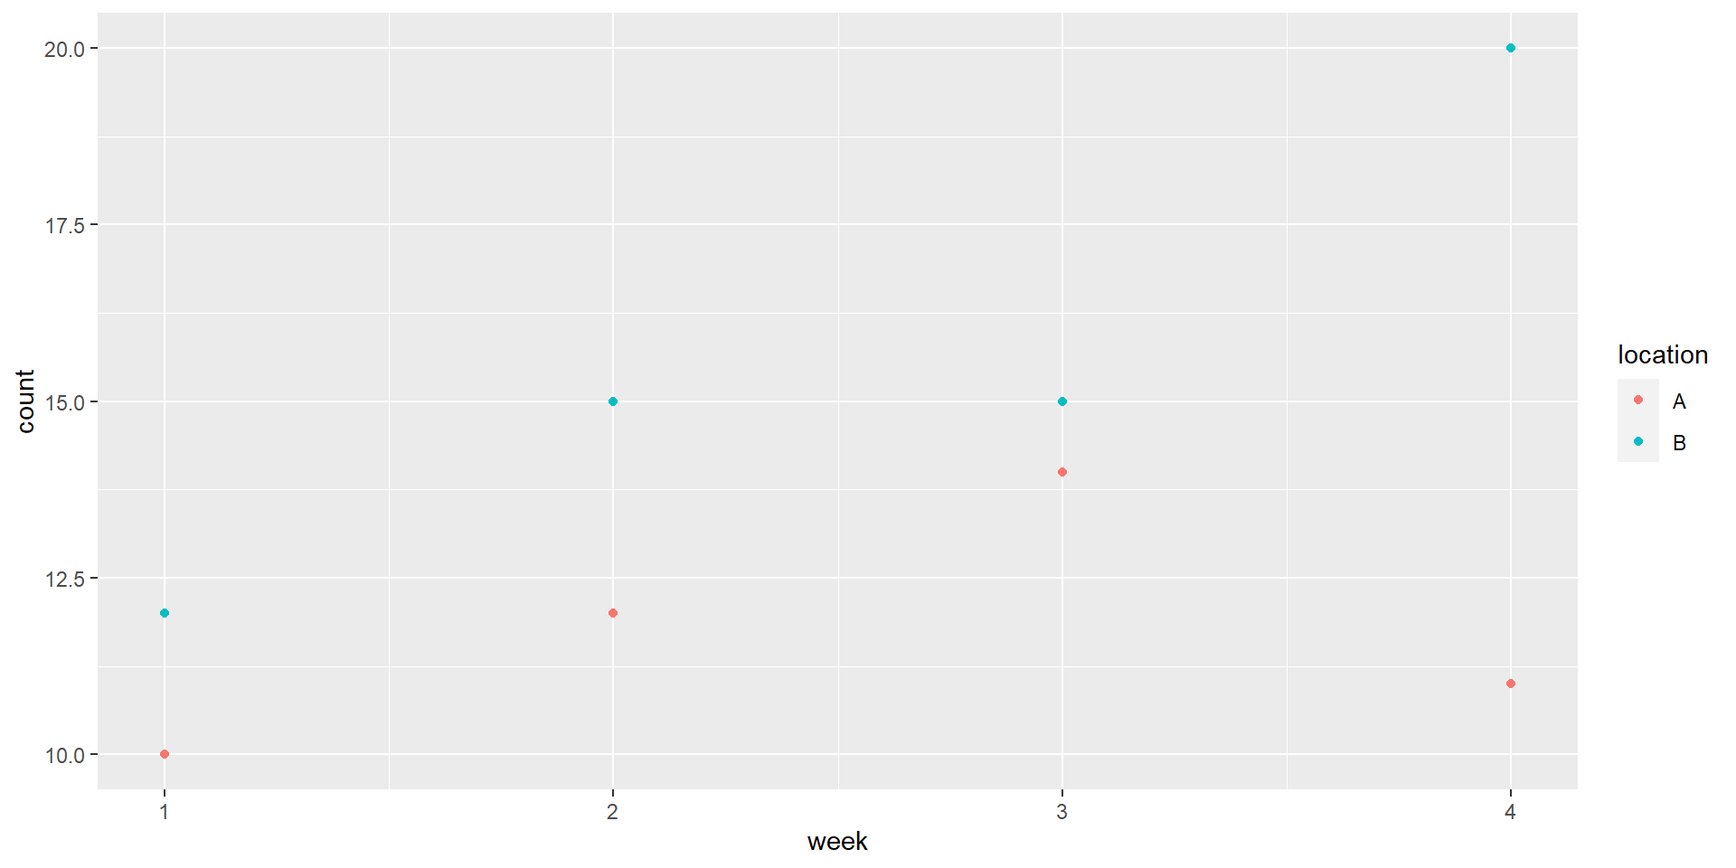
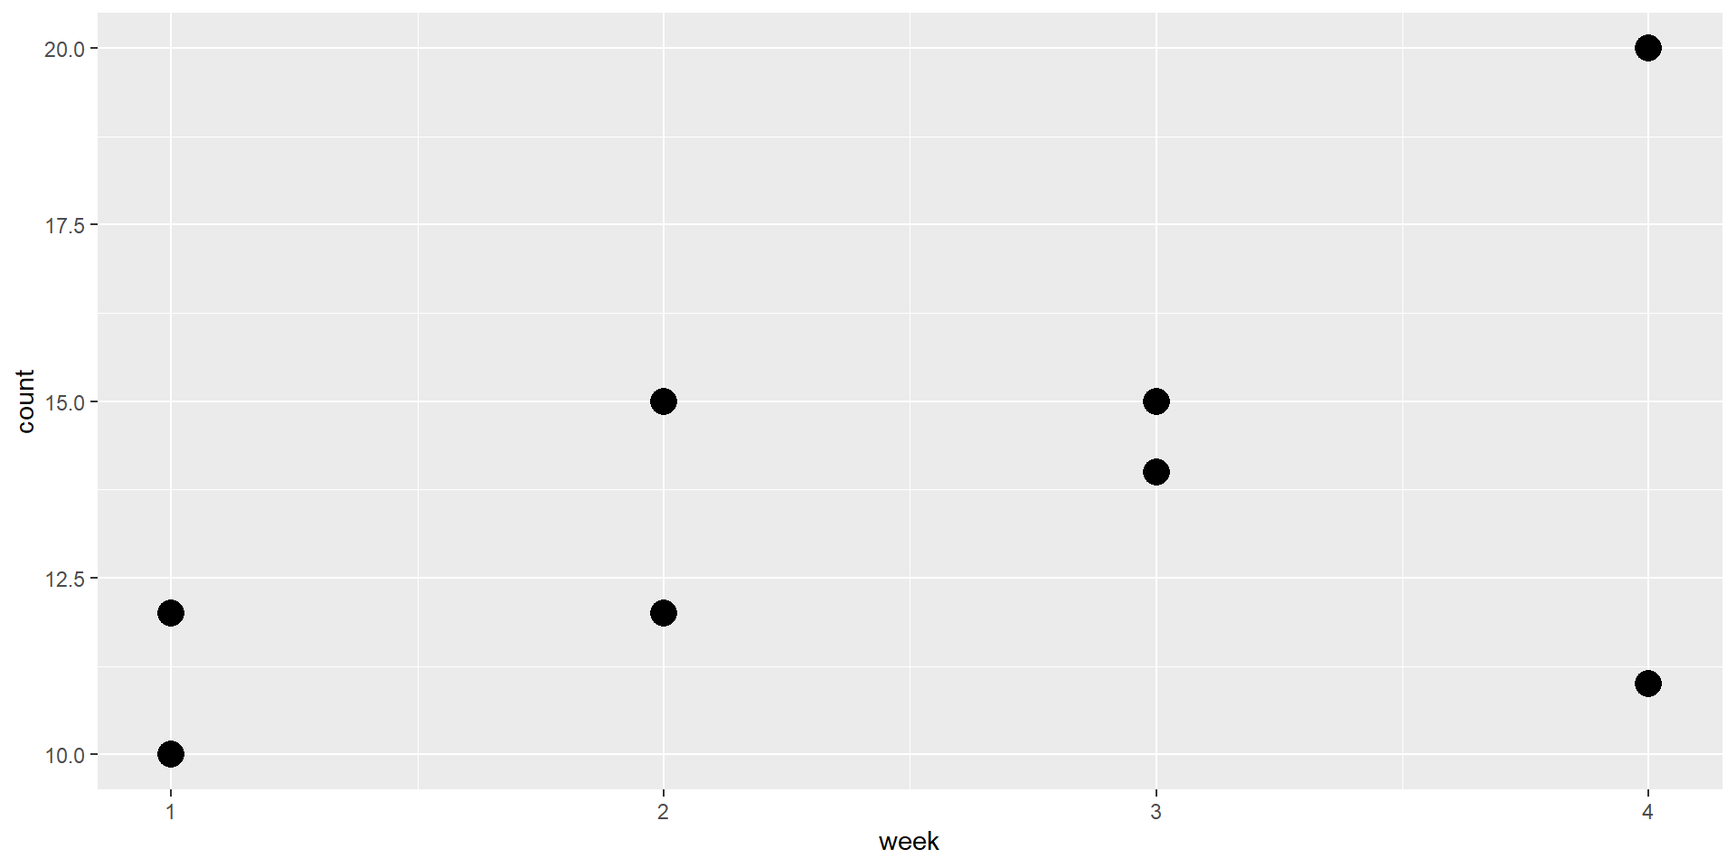
fixed some typos

diff --git a/docs/presentations/intro_into_ggplot.html b/docs/presentations/intro_into_ggplot.html
@@ -456,7 +456,7 @@ David Jansen
 <ul>
 <li><strong>survminer</strong> for survival analysis</li>
 <li><strong>ggcorrplot</strong> for correlation plots</li>
-<li><strong>gganimate</strong> make plot animations ## Key Features of ggplot2</li>
+<li><strong>gganimate</strong> make plot animations</li>
 </ul></li>
 </ul>
 </section>
@@ -487,7 +487,7 @@ David Jansen
 <span id="cb1-7"><a></a>       <span class="at">week4 =</span> <span class="fu">c</span>(<span class="dv">11</span>,  <span class="dv">20</span>)) <span class="sc">%&gt;%</span> </span>
 <span id="cb1-8"><a></a>  flextable<span class="sc">::</span><span class="fu">flextable</span>()</span></code><button title="Copy to Clipboard" class="code-copy-button"><i class="bi"></i></button></pre></div>
 <div class="cell-output-display">
-<div class="tabwid"><style>.cl-056fa090{}.cl-055c9bd0{font-family:'Arial';font-size:11pt;font-weight:normal;font-style:normal;text-decoration:none;color:rgba(0, 0, 0, 1.00);background-color:transparent;}.cl-0569bb62{margin:0;text-align:left;border-bottom: 0 solid rgba(0, 0, 0, 1.00);border-top: 0 solid rgba(0, 0, 0, 1.00);border-left: 0 solid rgba(0, 0, 0, 1.00);border-right: 0 solid rgba(0, 0, 0, 1.00);padding-bottom:5pt;padding-top:5pt;padding-left:5pt;padding-right:5pt;line-height: 1;background-color:transparent;}.cl-0569bb6c{margin:0;text-align:right;border-bottom: 0 solid rgba(0, 0, 0, 1.00);border-top: 0 solid rgba(0, 0, 0, 1.00);border-left: 0 solid rgba(0, 0, 0, 1.00);border-right: 0 solid rgba(0, 0, 0, 1.00);padding-bottom:5pt;padding-top:5pt;padding-left:5pt;padding-right:5pt;line-height: 1;background-color:transparent;}.cl-0569d16a{width:0.75in;background-color:transparent;vertical-align: middle;border-bottom: 1.5pt solid rgba(102, 102, 102, 1.00);border-top: 1.5pt solid rgba(102, 102, 102, 1.00);border-left: 0 solid rgba(0, 0, 0, 1.00);border-right: 0 solid rgba(0, 0, 0, 1.00);margin-bottom:0;margin-top:0;margin-left:0;margin-right:0;}.cl-0569d174{width:0.75in;background-color:transparent;vertical-align: middle;border-bottom: 1.5pt solid rgba(102, 102, 102, 1.00);border-top: 1.5pt solid rgba(102, 102, 102, 1.00);border-left: 0 solid rgba(0, 0, 0, 1.00);border-right: 0 solid rgba(0, 0, 0, 1.00);margin-bottom:0;margin-top:0;margin-left:0;margin-right:0;}.cl-0569d17e{width:0.75in;background-color:transparent;vertical-align: middle;border-bottom: 0 solid rgba(0, 0, 0, 1.00);border-top: 0 solid rgba(0, 0, 0, 1.00);border-left: 0 solid rgba(0, 0, 0, 1.00);border-right: 0 solid rgba(0, 0, 0, 1.00);margin-bottom:0;margin-top:0;margin-left:0;margin-right:0;}.cl-0569d17f{width:0.75in;background-color:transparent;vertical-align: middle;border-bottom: 0 solid rgba(0, 0, 0, 1.00);border-top: 0 solid rgba(0, 0, 0, 1.00);border-left: 0 solid rgba(0, 0, 0, 1.00);border-right: 0 solid rgba(0, 0, 0, 1.00);margin-bottom:0;margin-top:0;margin-left:0;margin-right:0;}.cl-0569d180{width:0.75in;background-color:transparent;vertical-align: middle;border-bottom: 1.5pt solid rgba(102, 102, 102, 1.00);border-top: 0 solid rgba(0, 0, 0, 1.00);border-left: 0 solid rgba(0, 0, 0, 1.00);border-right: 0 solid rgba(0, 0, 0, 1.00);margin-bottom:0;margin-top:0;margin-left:0;margin-right:0;}.cl-0569d188{width:0.75in;background-color:transparent;vertical-align: middle;border-bottom: 1.5pt solid rgba(102, 102, 102, 1.00);border-top: 0 solid rgba(0, 0, 0, 1.00);border-left: 0 solid rgba(0, 0, 0, 1.00);border-right: 0 solid rgba(0, 0, 0, 1.00);margin-bottom:0;margin-top:0;margin-left:0;margin-right:0;}</style><table data-quarto-disable-processing="true" class="cl-056fa090"><thead><tr style="overflow-wrap:break-word;"><th class="cl-0569d16a"><p class="cl-0569bb62"><span class="cl-055c9bd0">location</span></p></th><th class="cl-0569d174"><p class="cl-0569bb6c"><span class="cl-055c9bd0">week1</span></p></th><th class="cl-0569d174"><p class="cl-0569bb6c"><span class="cl-055c9bd0">week2</span></p></th><th class="cl-0569d174"><p class="cl-0569bb6c"><span class="cl-055c9bd0">week3</span></p></th><th class="cl-0569d174"><p class="cl-0569bb6c"><span class="cl-055c9bd0">week4</span></p></th></tr></thead><tbody><tr style="overflow-wrap:break-word;"><td class="cl-0569d17e"><p class="cl-0569bb62"><span class="cl-055c9bd0">A</span></p></td><td class="cl-0569d17f"><p class="cl-0569bb6c"><span class="cl-055c9bd0">10</span></p></td><td class="cl-0569d17f"><p class="cl-0569bb6c"><span class="cl-055c9bd0">12</span></p></td><td class="cl-0569d17f"><p class="cl-0569bb6c"><span class="cl-055c9bd0">14</span></p></td><td class="cl-0569d17f"><p class="cl-0569bb6c"><span class="cl-055c9bd0">11</span></p></td></tr><tr style="overflow-wrap:break-word;"><td class="cl-0569d180"><p class="cl-0569bb62"><span class="cl-055c9bd0">B</span></p></td><td class="cl-0569d188"><p class="cl-0569bb6c"><span class="cl-055c9bd0">12</span></p></td><td class="cl-0569d188"><p class="cl-0569bb6c"><span class="cl-055c9bd0">15</span></p></td><td class="cl-0569d188"><p class="cl-0569bb6c"><span class="cl-055c9bd0">15</span></p></td><td class="cl-0569d188"><p class="cl-0569bb6c"><span class="cl-055c9bd0">20</span></p></td></tr></tbody></table></div>
+<div class="tabwid"><style>.cl-adfb97ae{}.cl-ade6086c{font-family:'Arial';font-size:11pt;font-weight:normal;font-style:normal;text-decoration:none;color:rgba(0, 0, 0, 1.00);background-color:transparent;}.cl-adf57626{margin:0;text-align:left;border-bottom: 0 solid rgba(0, 0, 0, 1.00);border-top: 0 solid rgba(0, 0, 0, 1.00);border-left: 0 solid rgba(0, 0, 0, 1.00);border-right: 0 solid rgba(0, 0, 0, 1.00);padding-bottom:5pt;padding-top:5pt;padding-left:5pt;padding-right:5pt;line-height: 1;background-color:transparent;}.cl-adf57630{margin:0;text-align:right;border-bottom: 0 solid rgba(0, 0, 0, 1.00);border-top: 0 solid rgba(0, 0, 0, 1.00);border-left: 0 solid rgba(0, 0, 0, 1.00);border-right: 0 solid rgba(0, 0, 0, 1.00);padding-bottom:5pt;padding-top:5pt;padding-left:5pt;padding-right:5pt;line-height: 1;background-color:transparent;}.cl-adf58d5a{width:0.75in;background-color:transparent;vertical-align: middle;border-bottom: 1.5pt solid rgba(102, 102, 102, 1.00);border-top: 1.5pt solid rgba(102, 102, 102, 1.00);border-left: 0 solid rgba(0, 0, 0, 1.00);border-right: 0 solid rgba(0, 0, 0, 1.00);margin-bottom:0;margin-top:0;margin-left:0;margin-right:0;}.cl-adf58d64{width:0.75in;background-color:transparent;vertical-align: middle;border-bottom: 1.5pt solid rgba(102, 102, 102, 1.00);border-top: 1.5pt solid rgba(102, 102, 102, 1.00);border-left: 0 solid rgba(0, 0, 0, 1.00);border-right: 0 solid rgba(0, 0, 0, 1.00);margin-bottom:0;margin-top:0;margin-left:0;margin-right:0;}.cl-adf58d65{width:0.75in;background-color:transparent;vertical-align: middle;border-bottom: 0 solid rgba(0, 0, 0, 1.00);border-top: 0 solid rgba(0, 0, 0, 1.00);border-left: 0 solid rgba(0, 0, 0, 1.00);border-right: 0 solid rgba(0, 0, 0, 1.00);margin-bottom:0;margin-top:0;margin-left:0;margin-right:0;}.cl-adf58d6e{width:0.75in;background-color:transparent;vertical-align: middle;border-bottom: 0 solid rgba(0, 0, 0, 1.00);border-top: 0 solid rgba(0, 0, 0, 1.00);border-left: 0 solid rgba(0, 0, 0, 1.00);border-right: 0 solid rgba(0, 0, 0, 1.00);margin-bottom:0;margin-top:0;margin-left:0;margin-right:0;}.cl-adf58d6f{width:0.75in;background-color:transparent;vertical-align: middle;border-bottom: 1.5pt solid rgba(102, 102, 102, 1.00);border-top: 0 solid rgba(0, 0, 0, 1.00);border-left: 0 solid rgba(0, 0, 0, 1.00);border-right: 0 solid rgba(0, 0, 0, 1.00);margin-bottom:0;margin-top:0;margin-left:0;margin-right:0;}.cl-adf58d70{width:0.75in;background-color:transparent;vertical-align: middle;border-bottom: 1.5pt solid rgba(102, 102, 102, 1.00);border-top: 0 solid rgba(0, 0, 0, 1.00);border-left: 0 solid rgba(0, 0, 0, 1.00);border-right: 0 solid rgba(0, 0, 0, 1.00);margin-bottom:0;margin-top:0;margin-left:0;margin-right:0;}</style><table data-quarto-disable-processing="true" class="cl-adfb97ae"><thead><tr style="overflow-wrap:break-word;"><th class="cl-adf58d5a"><p class="cl-adf57626"><span class="cl-ade6086c">location</span></p></th><th class="cl-adf58d64"><p class="cl-adf57630"><span class="cl-ade6086c">week1</span></p></th><th class="cl-adf58d64"><p class="cl-adf57630"><span class="cl-ade6086c">week2</span></p></th><th class="cl-adf58d64"><p class="cl-adf57630"><span class="cl-ade6086c">week3</span></p></th><th class="cl-adf58d64"><p class="cl-adf57630"><span class="cl-ade6086c">week4</span></p></th></tr></thead><tbody><tr style="overflow-wrap:break-word;"><td class="cl-adf58d65"><p class="cl-adf57626"><span class="cl-ade6086c">A</span></p></td><td class="cl-adf58d6e"><p class="cl-adf57630"><span class="cl-ade6086c">10</span></p></td><td class="cl-adf58d6e"><p class="cl-adf57630"><span class="cl-ade6086c">12</span></p></td><td class="cl-adf58d6e"><p class="cl-adf57630"><span class="cl-ade6086c">14</span></p></td><td class="cl-adf58d6e"><p class="cl-adf57630"><span class="cl-ade6086c">11</span></p></td></tr><tr style="overflow-wrap:break-word;"><td class="cl-adf58d6f"><p class="cl-adf57626"><span class="cl-ade6086c">B</span></p></td><td class="cl-adf58d70"><p class="cl-adf57630"><span class="cl-ade6086c">12</span></p></td><td class="cl-adf58d70"><p class="cl-adf57630"><span class="cl-ade6086c">15</span></p></td><td class="cl-adf58d70"><p class="cl-adf57630"><span class="cl-ade6086c">15</span></p></td><td class="cl-adf58d70"><p class="cl-adf57630"><span class="cl-ade6086c">20</span></p></td></tr></tbody></table></div>
 </div>
 </div>
 </section>
@@ -509,7 +509,7 @@ David Jansen
 <span id="cb2-10"><a></a>df <span class="sc">%&gt;%</span> </span>
 <span id="cb2-11"><a></a>  flextable<span class="sc">::</span><span class="fu">flextable</span>()</span></code><button title="Copy to Clipboard" class="code-copy-button"><i class="bi"></i></button></pre></div>
 <div class="cell-output-display">
-<div class="tabwid"><style>.cl-0589e8e2{}.cl-05823156{font-family:'Arial';font-size:11pt;font-weight:normal;font-style:normal;text-decoration:none;color:rgba(0, 0, 0, 1.00);background-color:transparent;}.cl-0584e3f6{margin:0;text-align:left;border-bottom: 0 solid rgba(0, 0, 0, 1.00);border-top: 0 solid rgba(0, 0, 0, 1.00);border-left: 0 solid rgba(0, 0, 0, 1.00);border-right: 0 solid rgba(0, 0, 0, 1.00);padding-bottom:5pt;padding-top:5pt;padding-left:5pt;padding-right:5pt;line-height: 1;background-color:transparent;}.cl-0584e400{margin:0;text-align:right;border-bottom: 0 solid rgba(0, 0, 0, 1.00);border-top: 0 solid rgba(0, 0, 0, 1.00);border-left: 0 solid rgba(0, 0, 0, 1.00);border-right: 0 solid rgba(0, 0, 0, 1.00);padding-bottom:5pt;padding-top:5pt;padding-left:5pt;padding-right:5pt;line-height: 1;background-color:transparent;}.cl-0584f346{width:0.75in;background-color:transparent;vertical-align: middle;border-bottom: 1.5pt solid rgba(102, 102, 102, 1.00);border-top: 1.5pt solid rgba(102, 102, 102, 1.00);border-left: 0 solid rgba(0, 0, 0, 1.00);border-right: 0 solid rgba(0, 0, 0, 1.00);margin-bottom:0;margin-top:0;margin-left:0;margin-right:0;}.cl-0584f350{width:0.75in;background-color:transparent;vertical-align: middle;border-bottom: 1.5pt solid rgba(102, 102, 102, 1.00);border-top: 1.5pt solid rgba(102, 102, 102, 1.00);border-left: 0 solid rgba(0, 0, 0, 1.00);border-right: 0 solid rgba(0, 0, 0, 1.00);margin-bottom:0;margin-top:0;margin-left:0;margin-right:0;}.cl-0584f351{width:0.75in;background-color:transparent;vertical-align: middle;border-bottom: 0 solid rgba(0, 0, 0, 1.00);border-top: 0 solid rgba(0, 0, 0, 1.00);border-left: 0 solid rgba(0, 0, 0, 1.00);border-right: 0 solid rgba(0, 0, 0, 1.00);margin-bottom:0;margin-top:0;margin-left:0;margin-right:0;}.cl-0584f352{width:0.75in;background-color:transparent;vertical-align: middle;border-bottom: 0 solid rgba(0, 0, 0, 1.00);border-top: 0 solid rgba(0, 0, 0, 1.00);border-left: 0 solid rgba(0, 0, 0, 1.00);border-right: 0 solid rgba(0, 0, 0, 1.00);margin-bottom:0;margin-top:0;margin-left:0;margin-right:0;}.cl-0584f35a{width:0.75in;background-color:transparent;vertical-align: middle;border-bottom: 1.5pt solid rgba(102, 102, 102, 1.00);border-top: 0 solid rgba(0, 0, 0, 1.00);border-left: 0 solid rgba(0, 0, 0, 1.00);border-right: 0 solid rgba(0, 0, 0, 1.00);margin-bottom:0;margin-top:0;margin-left:0;margin-right:0;}.cl-0584f35b{width:0.75in;background-color:transparent;vertical-align: middle;border-bottom: 1.5pt solid rgba(102, 102, 102, 1.00);border-top: 0 solid rgba(0, 0, 0, 1.00);border-left: 0 solid rgba(0, 0, 0, 1.00);border-right: 0 solid rgba(0, 0, 0, 1.00);margin-bottom:0;margin-top:0;margin-left:0;margin-right:0;}</style><table data-quarto-disable-processing="true" class="cl-0589e8e2"><thead><tr style="overflow-wrap:break-word;"><th class="cl-0584f346"><p class="cl-0584e3f6"><span class="cl-05823156">location</span></p></th><th class="cl-0584f350"><p class="cl-0584e400"><span class="cl-05823156">week</span></p></th><th class="cl-0584f350"><p class="cl-0584e400"><span class="cl-05823156">count</span></p></th></tr></thead><tbody><tr style="overflow-wrap:break-word;"><td class="cl-0584f351"><p class="cl-0584e3f6"><span class="cl-05823156">A</span></p></td><td class="cl-0584f352"><p class="cl-0584e400"><span class="cl-05823156">1</span></p></td><td class="cl-0584f352"><p class="cl-0584e400"><span class="cl-05823156">10</span></p></td></tr><tr style="overflow-wrap:break-word;"><td class="cl-0584f351"><p class="cl-0584e3f6"><span class="cl-05823156">A</span></p></td><td class="cl-0584f352"><p class="cl-0584e400"><span class="cl-05823156">2</span></p></td><td class="cl-0584f352"><p class="cl-0584e400"><span class="cl-05823156">12</span></p></td></tr><tr style="overflow-wrap:break-word;"><td class="cl-0584f351"><p class="cl-0584e3f6"><span class="cl-05823156">A</span></p></td><td class="cl-0584f352"><p class="cl-0584e400"><span class="cl-05823156">3</span></p></td><td class="cl-0584f352"><p class="cl-0584e400"><span class="cl-05823156">14</span></p></td></tr><tr style="overflow-wrap:break-word;"><td class="cl-0584f351"><p class="cl-0584e3f6"><span class="cl-05823156">A</span></p></td><td class="cl-0584f352"><p class="cl-0584e400"><span class="cl-05823156">4</span></p></td><td class="cl-0584f352"><p class="cl-0584e400"><span class="cl-05823156">11</span></p></td></tr><tr style="overflow-wrap:break-word;"><td class="cl-0584f351"><p class="cl-0584e3f6"><span class="cl-05823156">B</span></p></td><td class="cl-0584f352"><p class="cl-0584e400"><span class="cl-05823156">1</span></p></td><td class="cl-0584f352"><p class="cl-0584e400"><span class="cl-05823156">12</span></p></td></tr><tr style="overflow-wrap:break-word;"><td class="cl-0584f351"><p class="cl-0584e3f6"><span class="cl-05823156">B</span></p></td><td class="cl-0584f352"><p class="cl-0584e400"><span class="cl-05823156">2</span></p></td><td class="cl-0584f352"><p class="cl-0584e400"><span class="cl-05823156">15</span></p></td></tr><tr style="overflow-wrap:break-word;"><td class="cl-0584f351"><p class="cl-0584e3f6"><span class="cl-05823156">B</span></p></td><td class="cl-0584f352"><p class="cl-0584e400"><span class="cl-05823156">3</span></p></td><td class="cl-0584f352"><p class="cl-0584e400"><span class="cl-05823156">15</span></p></td></tr><tr style="overflow-wrap:break-word;"><td class="cl-0584f35a"><p class="cl-0584e3f6"><span class="cl-05823156">B</span></p></td><td class="cl-0584f35b"><p class="cl-0584e400"><span class="cl-05823156">4</span></p></td><td class="cl-0584f35b"><p class="cl-0584e400"><span class="cl-05823156">20</span></p></td></tr></tbody></table></div>
+<div class="tabwid"><style>.cl-ae196fea{}.cl-ae10d786{font-family:'Arial';font-size:11pt;font-weight:normal;font-style:normal;text-decoration:none;color:rgba(0, 0, 0, 1.00);background-color:transparent;}.cl-ae140064{margin:0;text-align:left;border-bottom: 0 solid rgba(0, 0, 0, 1.00);border-top: 0 solid rgba(0, 0, 0, 1.00);border-left: 0 solid rgba(0, 0, 0, 1.00);border-right: 0 solid rgba(0, 0, 0, 1.00);padding-bottom:5pt;padding-top:5pt;padding-left:5pt;padding-right:5pt;line-height: 1;background-color:transparent;}.cl-ae14006e{margin:0;text-align:right;border-bottom: 0 solid rgba(0, 0, 0, 1.00);border-top: 0 solid rgba(0, 0, 0, 1.00);border-left: 0 solid rgba(0, 0, 0, 1.00);border-right: 0 solid rgba(0, 0, 0, 1.00);padding-bottom:5pt;padding-top:5pt;padding-left:5pt;padding-right:5pt;line-height: 1;background-color:transparent;}.cl-ae1415b8{width:0.75in;background-color:transparent;vertical-align: middle;border-bottom: 1.5pt solid rgba(102, 102, 102, 1.00);border-top: 1.5pt solid rgba(102, 102, 102, 1.00);border-left: 0 solid rgba(0, 0, 0, 1.00);border-right: 0 solid rgba(0, 0, 0, 1.00);margin-bottom:0;margin-top:0;margin-left:0;margin-right:0;}.cl-ae1415b9{width:0.75in;background-color:transparent;vertical-align: middle;border-bottom: 1.5pt solid rgba(102, 102, 102, 1.00);border-top: 1.5pt solid rgba(102, 102, 102, 1.00);border-left: 0 solid rgba(0, 0, 0, 1.00);border-right: 0 solid rgba(0, 0, 0, 1.00);margin-bottom:0;margin-top:0;margin-left:0;margin-right:0;}.cl-ae1415c2{width:0.75in;background-color:transparent;vertical-align: middle;border-bottom: 0 solid rgba(0, 0, 0, 1.00);border-top: 0 solid rgba(0, 0, 0, 1.00);border-left: 0 solid rgba(0, 0, 0, 1.00);border-right: 0 solid rgba(0, 0, 0, 1.00);margin-bottom:0;margin-top:0;margin-left:0;margin-right:0;}.cl-ae1415c3{width:0.75in;background-color:transparent;vertical-align: middle;border-bottom: 0 solid rgba(0, 0, 0, 1.00);border-top: 0 solid rgba(0, 0, 0, 1.00);border-left: 0 solid rgba(0, 0, 0, 1.00);border-right: 0 solid rgba(0, 0, 0, 1.00);margin-bottom:0;margin-top:0;margin-left:0;margin-right:0;}.cl-ae1415cc{width:0.75in;background-color:transparent;vertical-align: middle;border-bottom: 1.5pt solid rgba(102, 102, 102, 1.00);border-top: 0 solid rgba(0, 0, 0, 1.00);border-left: 0 solid rgba(0, 0, 0, 1.00);border-right: 0 solid rgba(0, 0, 0, 1.00);margin-bottom:0;margin-top:0;margin-left:0;margin-right:0;}.cl-ae1415cd{width:0.75in;background-color:transparent;vertical-align: middle;border-bottom: 1.5pt solid rgba(102, 102, 102, 1.00);border-top: 0 solid rgba(0, 0, 0, 1.00);border-left: 0 solid rgba(0, 0, 0, 1.00);border-right: 0 solid rgba(0, 0, 0, 1.00);margin-bottom:0;margin-top:0;margin-left:0;margin-right:0;}</style><table data-quarto-disable-processing="true" class="cl-ae196fea"><thead><tr style="overflow-wrap:break-word;"><th class="cl-ae1415b8"><p class="cl-ae140064"><span class="cl-ae10d786">location</span></p></th><th class="cl-ae1415b9"><p class="cl-ae14006e"><span class="cl-ae10d786">week</span></p></th><th class="cl-ae1415b9"><p class="cl-ae14006e"><span class="cl-ae10d786">count</span></p></th></tr></thead><tbody><tr style="overflow-wrap:break-word;"><td class="cl-ae1415c2"><p class="cl-ae140064"><span class="cl-ae10d786">A</span></p></td><td class="cl-ae1415c3"><p class="cl-ae14006e"><span class="cl-ae10d786">1</span></p></td><td class="cl-ae1415c3"><p class="cl-ae14006e"><span class="cl-ae10d786">10</span></p></td></tr><tr style="overflow-wrap:break-word;"><td class="cl-ae1415c2"><p class="cl-ae140064"><span class="cl-ae10d786">A</span></p></td><td class="cl-ae1415c3"><p class="cl-ae14006e"><span class="cl-ae10d786">2</span></p></td><td class="cl-ae1415c3"><p class="cl-ae14006e"><span class="cl-ae10d786">12</span></p></td></tr><tr style="overflow-wrap:break-word;"><td class="cl-ae1415c2"><p class="cl-ae140064"><span class="cl-ae10d786">A</span></p></td><td class="cl-ae1415c3"><p class="cl-ae14006e"><span class="cl-ae10d786">3</span></p></td><td class="cl-ae1415c3"><p class="cl-ae14006e"><span class="cl-ae10d786">14</span></p></td></tr><tr style="overflow-wrap:break-word;"><td class="cl-ae1415c2"><p class="cl-ae140064"><span class="cl-ae10d786">A</span></p></td><td class="cl-ae1415c3"><p class="cl-ae14006e"><span class="cl-ae10d786">4</span></p></td><td class="cl-ae1415c3"><p class="cl-ae14006e"><span class="cl-ae10d786">11</span></p></td></tr><tr style="overflow-wrap:break-word;"><td class="cl-ae1415c2"><p class="cl-ae140064"><span class="cl-ae10d786">B</span></p></td><td class="cl-ae1415c3"><p class="cl-ae14006e"><span class="cl-ae10d786">1</span></p></td><td class="cl-ae1415c3"><p class="cl-ae14006e"><span class="cl-ae10d786">12</span></p></td></tr><tr style="overflow-wrap:break-word;"><td class="cl-ae1415c2"><p class="cl-ae140064"><span class="cl-ae10d786">B</span></p></td><td class="cl-ae1415c3"><p class="cl-ae14006e"><span class="cl-ae10d786">2</span></p></td><td class="cl-ae1415c3"><p class="cl-ae14006e"><span class="cl-ae10d786">15</span></p></td></tr><tr style="overflow-wrap:break-word;"><td class="cl-ae1415c2"><p class="cl-ae140064"><span class="cl-ae10d786">B</span></p></td><td class="cl-ae1415c3"><p class="cl-ae14006e"><span class="cl-ae10d786">3</span></p></td><td class="cl-ae1415c3"><p class="cl-ae14006e"><span class="cl-ae10d786">15</span></p></td></tr><tr style="overflow-wrap:break-word;"><td class="cl-ae1415cc"><p class="cl-ae140064"><span class="cl-ae10d786">B</span></p></td><td class="cl-ae1415cd"><p class="cl-ae14006e"><span class="cl-ae10d786">4</span></p></td><td class="cl-ae1415cd"><p class="cl-ae14006e"><span class="cl-ae10d786">20</span></p></td></tr></tbody></table></div>
 </div>
 </div>
 </section>
@@ -527,18 +527,18 @@ David Jansen
 <section id="first-simple-plot-2" class="slide level2">
 <h2>First simple plot (2)</h2>
 <ul>
-<li>add color</li>
+<li>change size of the dots</li>
 </ul>
 <div class="cell">
-<div class="sourceCode cell-code" id="cb4"><pre class="sourceCode numberSource r number-lines code-with-copy"><code class="sourceCode r"><span id="cb4-1"><a></a><span class="fu">ggplot</span>(<span class="at">data =</span> df, <span class="fu">aes</span>(<span class="at">x =</span> week, <span class="at">y =</span> count, <span class="at">color =</span> location)) <span class="sc">+</span></span>
-<span id="cb4-2"><a></a>  <span class="fu">geom_point</span>()</span></code><button title="Copy to Clipboard" class="code-copy-button"><i class="bi"></i></button></pre></div>
+<div class="sourceCode cell-code" id="cb4"><pre class="sourceCode numberSource r number-lines code-with-copy"><code class="sourceCode r"><span id="cb4-1"><a></a><span class="fu">ggplot</span>(<span class="at">data =</span> df, <span class="fu">aes</span>(<span class="at">x =</span> week, <span class="at">y =</span> count)) <span class="sc">+</span></span>
+<span id="cb4-2"><a></a>  <span class="fu">geom_point</span>(<span class="at">size =</span> <span class="dv">5</span>)</span></code><button title="Copy to Clipboard" class="code-copy-button"><i class="bi"></i></button></pre></div>
 
 </div>
 <img data-src="intro_into_ggplot_files/figure-revealjs/unnamed-chunk-4-1.png" width="960" class="r-stretch"></section>
-<section id="first-simple-plot-2-1" class="slide level2">
-<h2>First simple plot (2)</h2>
+<section id="first-simple-plot-3" class="slide level2">
+<h2>First simple plot (3)</h2>
 <ul>
-<li>change size of dots</li>
+<li>change the color of the dots</li>
 </ul>
 <div class="cell">
 <div class="sourceCode cell-code" id="cb5"><pre class="sourceCode numberSource r number-lines code-with-copy"><code class="sourceCode r"><span id="cb5-1"><a></a><span class="fu">ggplot</span>(<span class="at">data =</span> df, <span class="fu">aes</span>(<span class="at">x =</span> week, <span class="at">y =</span> count, <span class="at">color =</span> location)) <span class="sc">+</span></span>
@@ -546,8 +546,8 @@ David Jansen
 
 </div>
 <img data-src="intro_into_ggplot_files/figure-revealjs/unnamed-chunk-5-1.png" width="960" class="r-stretch"></section>
-<section id="first-simple-plot-3" class="slide level2">
-<h2>First simple plot (3)</h2>
+<section id="first-simple-plot-4" class="slide level2">
+<h2>First simple plot (4)</h2>
 <ul>
 <li>change axis</li>
 </ul>
@@ -558,8 +558,8 @@ David Jansen
 
 </div>
 <img data-src="intro_into_ggplot_files/figure-revealjs/unnamed-chunk-6-1.png" width="960" class="r-stretch"></section>
-<section id="first-simple-plot-4" class="slide level2">
-<h2>First simple plot (4)</h2>
+<section id="first-simple-plot-5" class="slide level2">
+<h2>First simple plot (5)</h2>
 <ul>
 <li>change labels and theme</li>
 </ul>
@@ -568,7 +568,7 @@ David Jansen
 <span id="cb7-2"><a></a>  <span class="fu">geom_point</span>(<span class="at">size =</span> <span class="dv">5</span>) <span class="sc">+</span></span>
 <span id="cb7-3"><a></a>  <span class="fu">scale_y_continuous</span>(<span class="at">limits =</span> <span class="fu">c</span>(<span class="dv">0</span>,<span class="dv">22</span>)) <span class="sc">+</span></span>
 <span id="cb7-4"><a></a>  <span class="fu">labs</span>(<span class="at">x =</span> <span class="st">"sample week"</span>, <span class="at">y =</span> <span class="st">"tick count"</span>) <span class="sc">+</span></span>
-<span id="cb7-5"><a></a>  <span class="fu">theme_classic</span>() </span></code><button title="Copy to Clipboard" class="code-copy-button"><i class="bi"></i></button></pre></div>
+<span id="cb7-5"><a></a>  <span class="fu">theme_classic</span>()</span></code><button title="Copy to Clipboard" class="code-copy-button"><i class="bi"></i></button></pre></div>
 
 </div>
 <img data-src="intro_into_ggplot_files/figure-revealjs/unnamed-chunk-7-1.png" width="960" class="r-stretch"></section>
